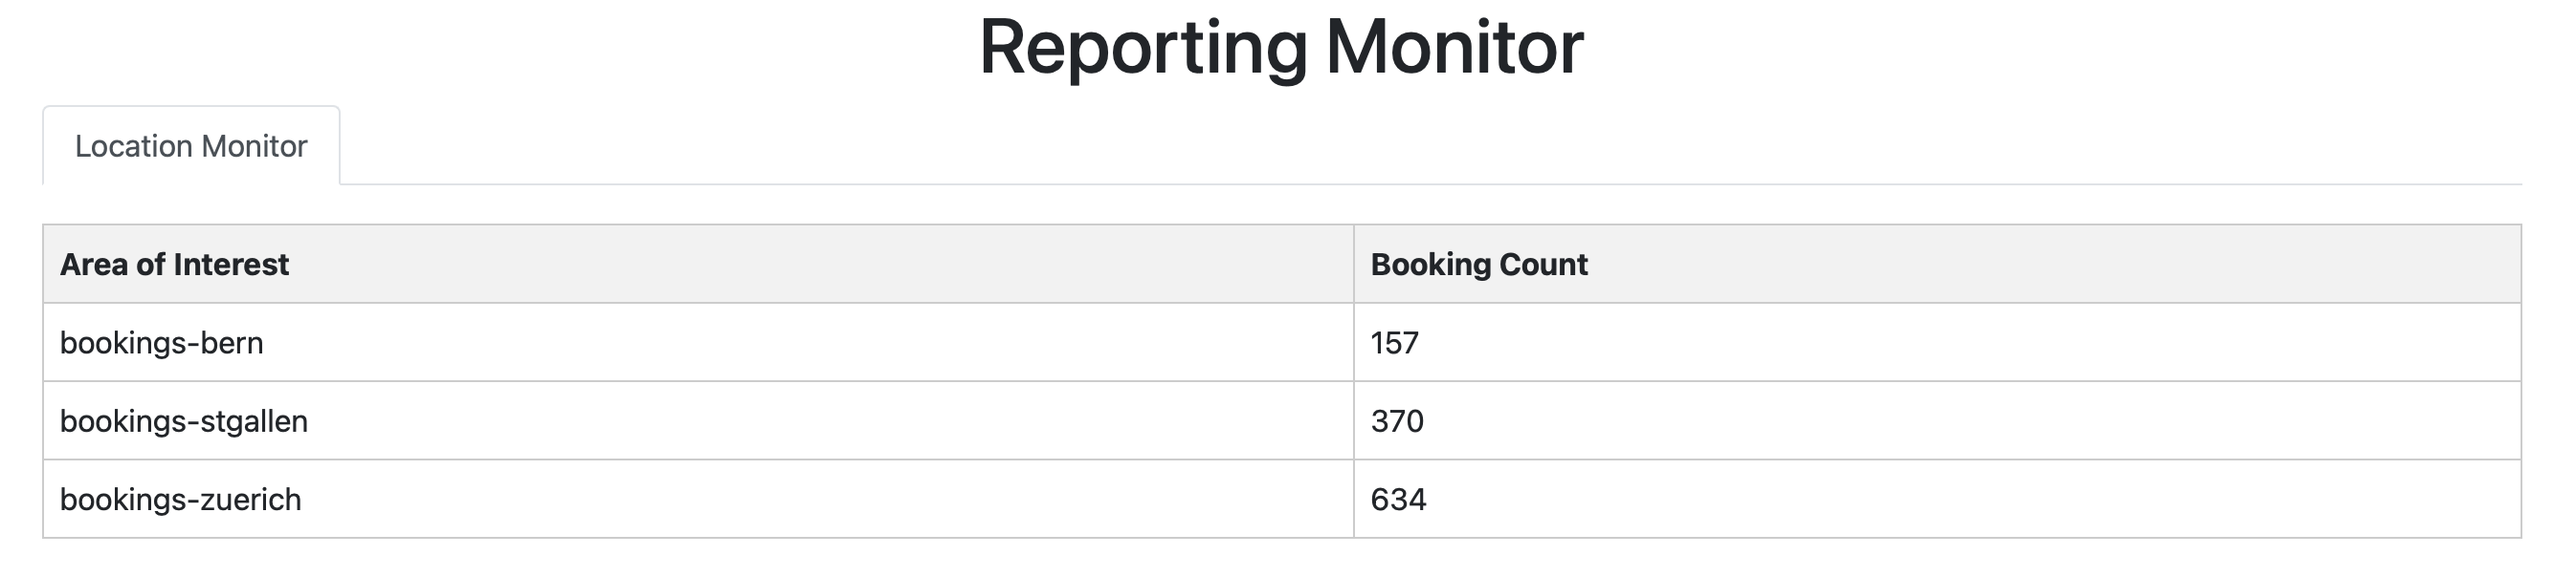
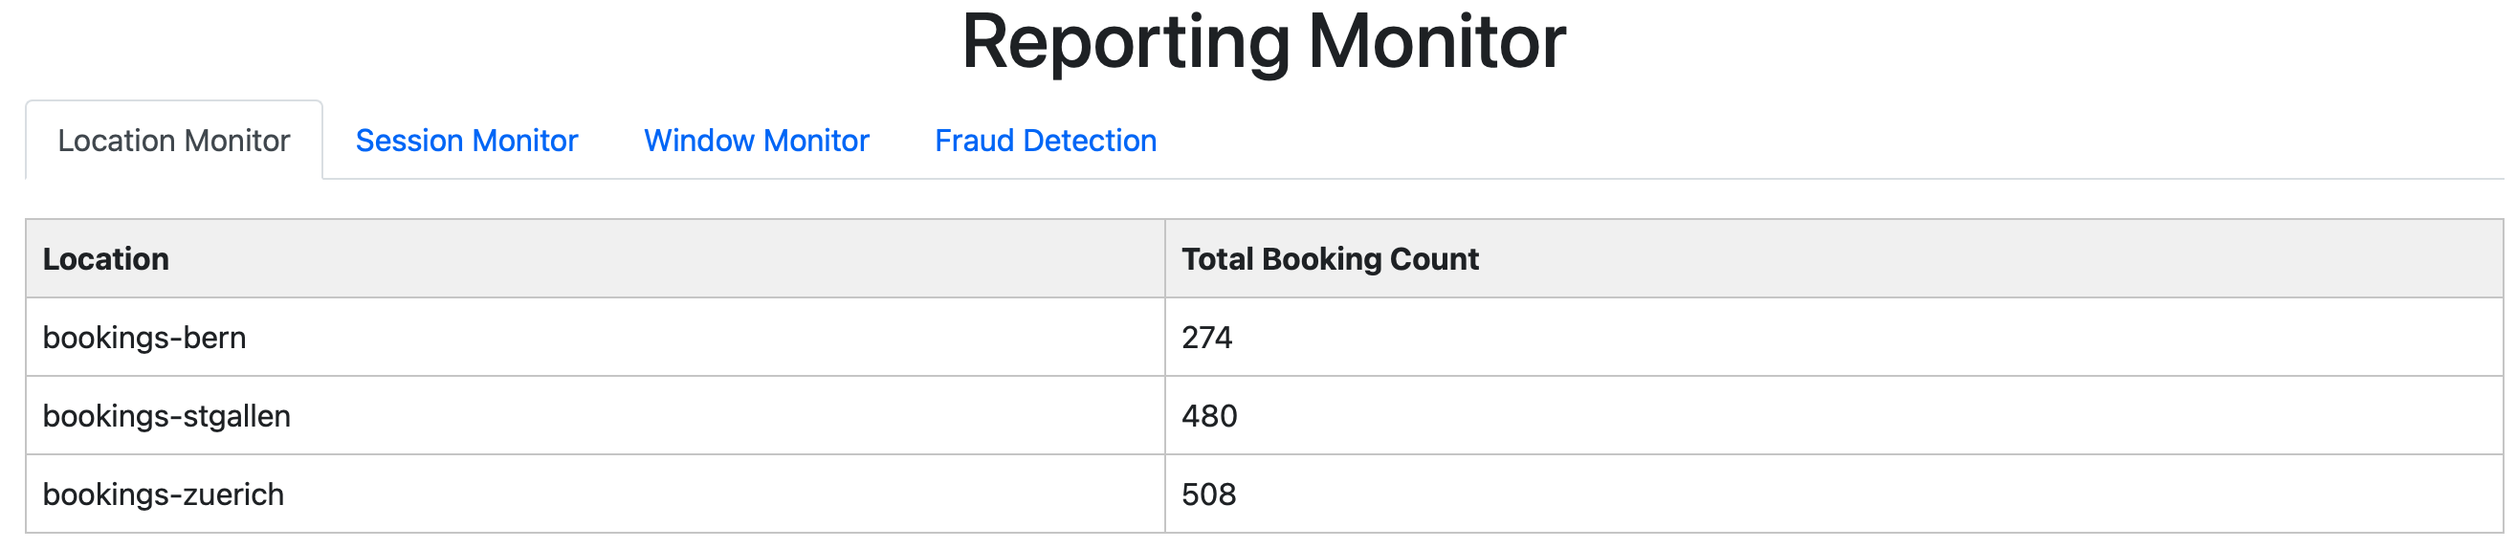
docu update

diff --git a/README.md b/README.md
@@ -1,4 +1,8 @@
-# Fusion Flow
+# Fusion Flow Assignment # 1
+
+Important!!!
+For second part of assignment, please go [here](#fusion-flow-assignment--2)
+
 This project simulates a typical business logic workflow using event-driven architecture. The implementation is based on
 the implementation of [flowing retail](https://github.com/scs-edpo/lab04-flowing-retail).
 We use Apache Kafka and Camunda Process orchestration to facilitate our workflow. 
@@ -36,20 +40,20 @@ Please find all ADRs in the [docs/adr](docs/adr) folder.
 Use the Maven task "flowing-retail-kafka" to clean and rebuild all projects in the application. To run the Flowing Retail project you first need to be sure that all the relevant projects have been built at least once: (Maven Window -> Run Maven Build "green play button" )
 
 ```
-  $ cd .\kafka\java\
-  $ mvn clean install
+  cd .\kafka\java\
+  mvn clean install
 ```
 
 Then you can execute:
 
 ```
-  $ docker-compose -f docker-compose.yml up --build
+  docker-compose -f docker-compose.yml up --build
 ```
 
 (omit --build if you have already built the images):
 
 ```
-  $ docker-compose -f docker-compose.yml up
+  docker-compose -f docker-compose.yml up
 ```
 from the directory [runner/docker-compose](runner/docker-compose).
 
@@ -150,3 +154,36 @@ All team members contributed equally to the group project.
 - We learned how to use Maven & Spring to build our projects.
 - We all did not have any experience with Kafka  & Camunda. We would have profited more from the guest lecture from the Camunda team (Niall Deehan) if we had more experience with the tool. It would have been great if Camunda 8 was introduced in the lecture, since it is the recommended version for new projects. We regret having started with Camunda 7.
 - Group projects with small group size (not more than 3 people) are more efficient and effective. We had a good communication and could easily coordinate our tasks.
+
+
+# Fusion Flow Assignment # 2
+In the second part of the project, focus was put on stream processing with kafka. 
+
+## Building the project
+To run the Flowing Retail project, assignment #2,  you first need to be sure that all the relevant projects, namely [bookingProducer](kafka/java/bookingProducer) and [reporting](kafka/java/reporting) have been built at least once: (Maven Window -> Run Maven Build "green play button" )
+
+```
+  cd .\kafka\java\
+  mvn clean install
+```
+
+Then you can execute:
+
+```
+  docker-compose -f docker-compose-stream-only.yml up --build
+```
+
+(omit --build if you have already built the images):
+
+```
+  docker-compose -f docker-compose-stream-only.yml up
+```
+from the directory [runner/docker-compose](runner/docker-compose).
+
+### Launching the application
+1. There is a [docker-compose](runner/docker-compose/docker-compose-stream-only.yml) script that, when executed, launches the kafka environment that is needed for this project. Wait a few minutes...
+2. Run the [BookingProducer](kafka/java/bookingProducer/src/main/java/io/flowing/retail/bookingProducer/BookingProducer.java) project to produce booking events to the kafka topic.
+3. Run the [SessionInfoProducer](kafka/java/bookingProducer/src/main/java/io/flowing/retail/bookingProducer/SessionInfoProducer.java) project to produce further events to the kafka topic.
+4. Run the [ReportingApplication](kafka/java/reporting/src/main/java/io/flowing/retail/reporting/ReportingApplication.java) project to start the reporting service which you can access here: http://localhost:7070.
+
+These are all the important steps. Have fun!

diff --git a/kafka/java/reporting/README.md b/kafka/java/reporting/README.md
@@ -22,12 +22,30 @@ JSON Object for better understanding of the data received in a kafka stream:
 
 
 ## Interactive Queries
-In order to fulfill the requirement "Interactive queries" from exercise 9 [ReportingService](../../../kafka/java/reporting/src/main/java/io/flowing/retail/reporting/topology/ReportingService.java) has been introduced. This service is responsible for exposing the interactive queries to the outside world. The interactive queries are the following:
-- `/locationMonitor`: Return the total amount of bookings per location.
+In order to fulfill the requirement "Interactive queries" from exercise 9, several topologies have been introduced. The can all be queried from the [ReportingService](../../../kafka/java/reporting/src/main/java/io/flowing/retail/reporting/application/ReportingService.java) by applying the following methods:
+
+
+- [FilterProcessesToLocations](../../../kafka/java/reporting/src/main/java/io/flowing/retail/reporting/topology/FilterProcessesToLocationsTopology.java) The idea is to get the bookings and filter them by location. The call is `/locationMonitor`: Returns the total amount of bookings per location.
+The following image shows corresponding reporting monitor:
+![ReportingMonitor](../../../docs/ReportingMonitor.png)
+
+
+- [CombineStreamsAndPrepareForReporting](../../../kafka/java/reporting/src/main/java/io/flowing/retail/reporting/topology/CombineStreamsAndPrepareForReportingTopology.java) The idea is to get statistics from a certain location by combining two streams. The call is `/sessionMonitor`: Returns averageSessionDelay, percentageOfCustomersTooLate, numberOfLateCustomers, totalLostTime and numberOfSessions per location.
+The following image shows corresponding reporting monitor:
+  ![SessionMonitor](../../../docs/SessionMonitor.png)
+
+
+- [Window](../../../kafka/java/reporting/src/main/java/io/flowing/retail/reporting/topology/WindowTopology.java) The idea is to get the number of bookings per day per location. The call is `/windowMonitor`: Returns number of bookings per day per location.
+  The following image shows corresponding reporting monitor:
+  ![WindowMonitor](../../../docs/WindowMonitor.png)
+
+
+- [FraudDetection](../../../kafka/java/reporting/src/main/java/io/flowing/retail/reporting/topology/FraudDetectionTopology.java) The idea is to measure fraudulent behaviour. In case a booking within a minute is made by the same person, an entry will be made here. This feature is used to detect an misuse of for example a stolen credit card.  The call is `/fraudDetection`: Returns count and customer Name of a fraudulent booking.
+  ![FraudDetection](../../../docs/FraudDetection.png)
+
 
 The reporting monitor is accessible through the Javalin web server with the following address:
 http://localhost:7070
 
-The following image shows the reporting monitor:
-![../../../docs/ReportingMonitor.png](../../../docs/ReportingMonitor.png)
+
 
